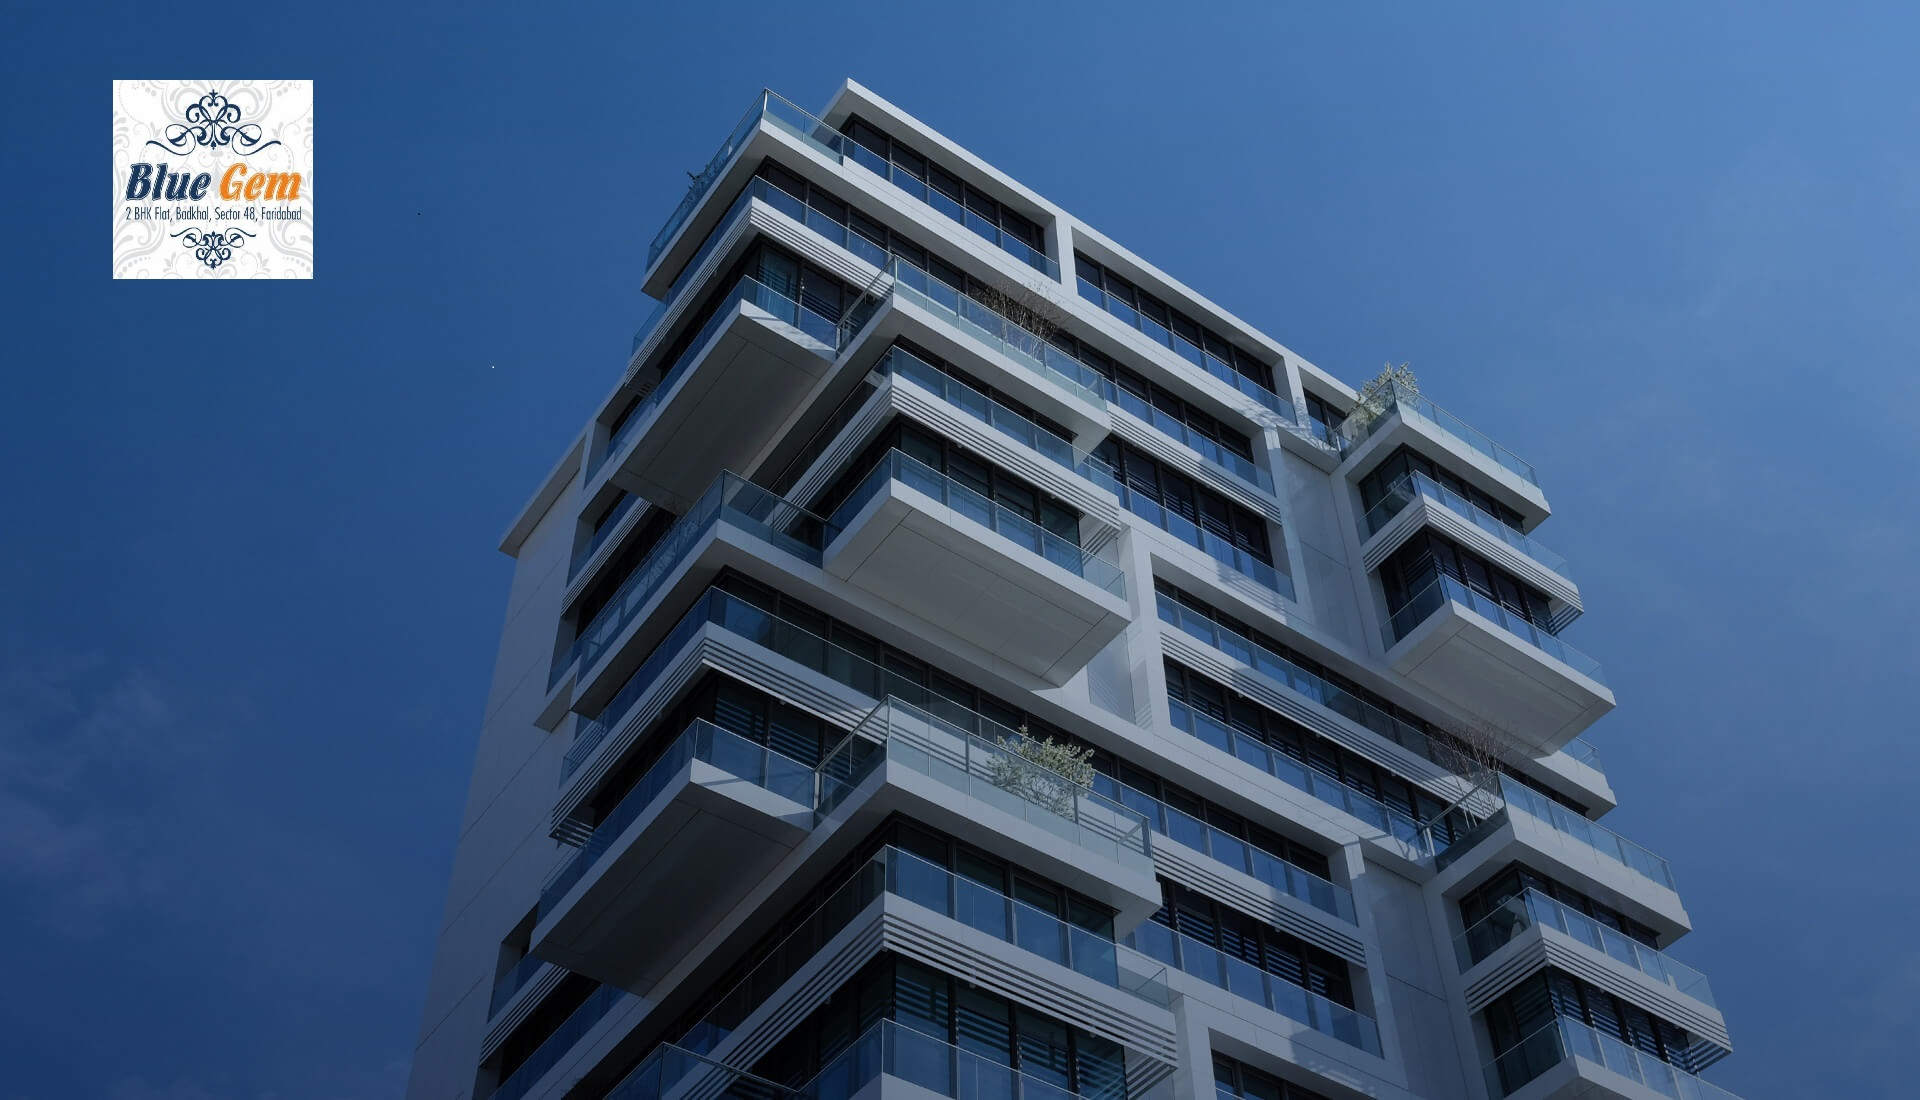
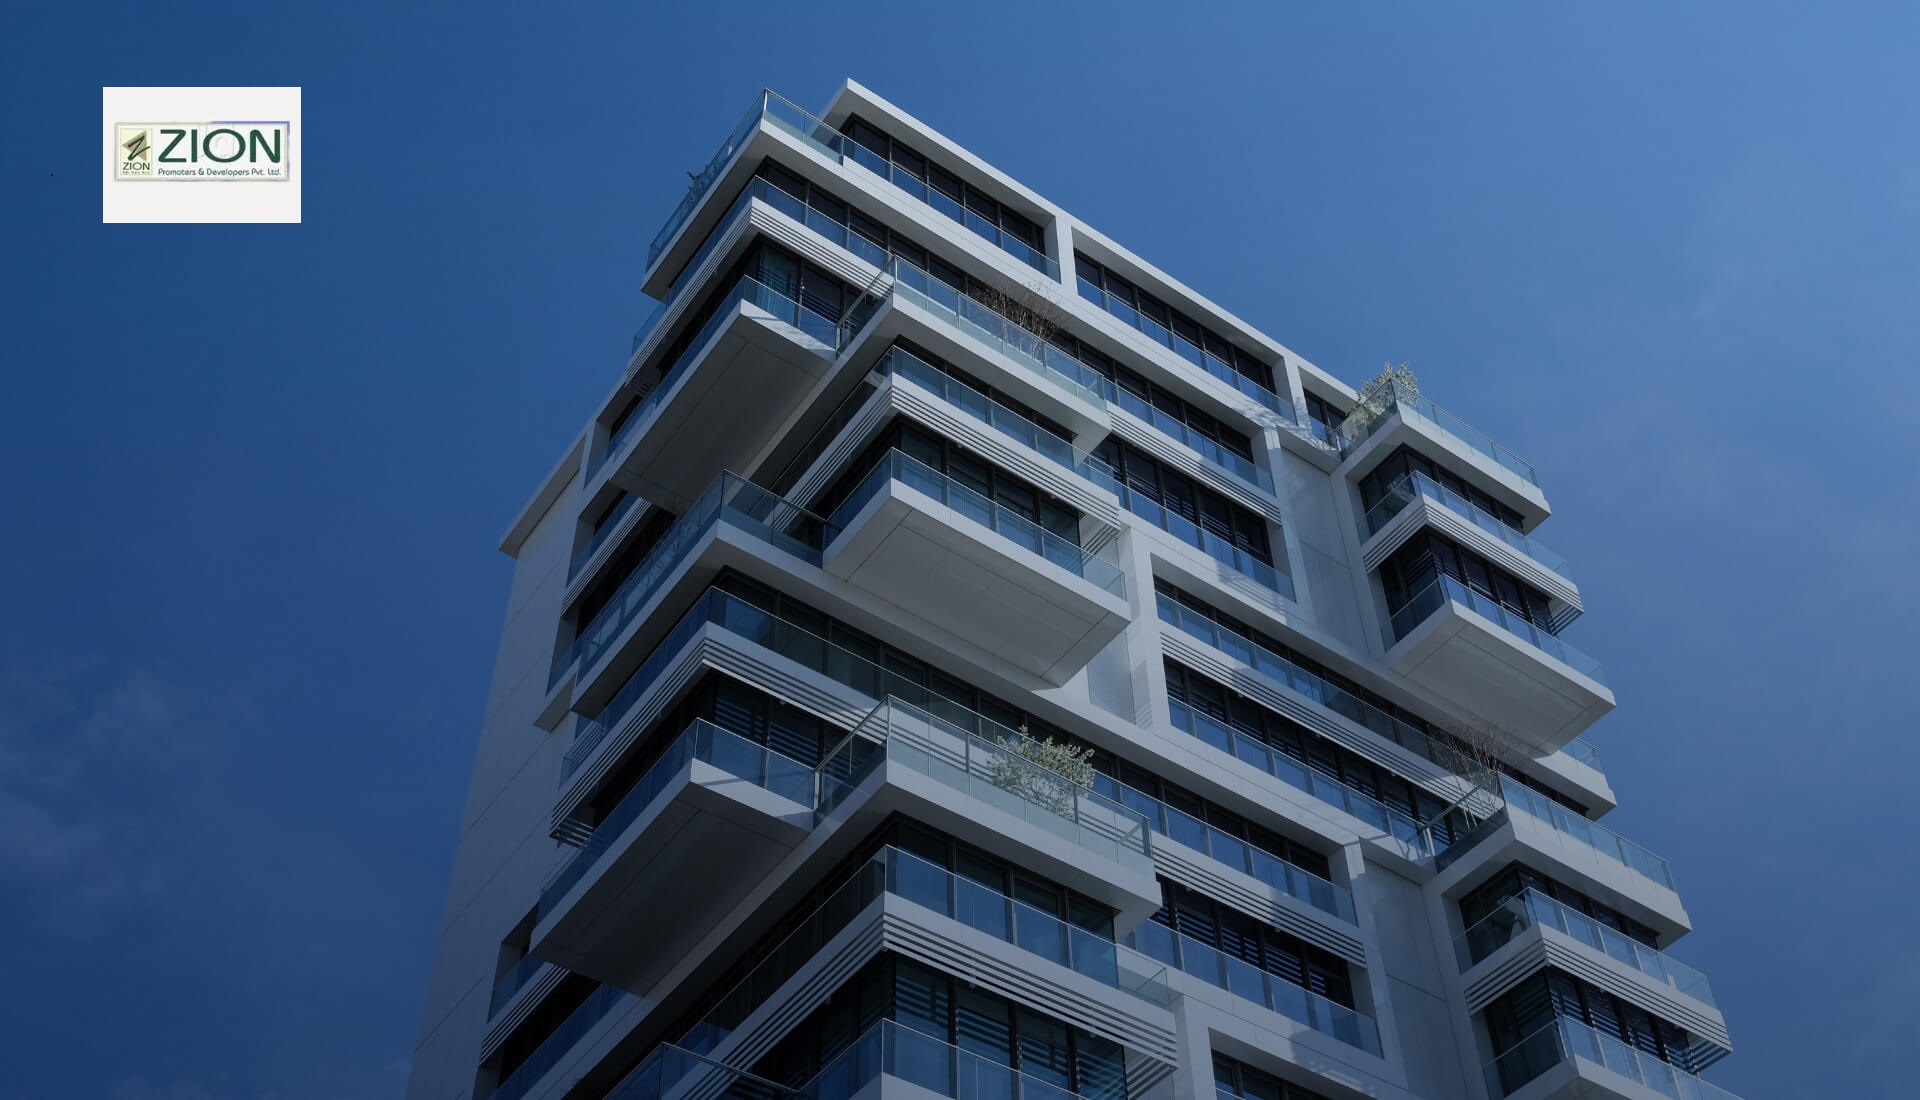
Add files via upload

Changed region(s): [[0.0312, 0.0618, 0.1875, 0.2782]]

diff --git a/index.html b/index.html
@@ -11,7 +11,7 @@
 	<meta name="viewport" content="width=device-width, initial-scale=1, maximum-scale=1, user-scalable=no">
 	<meta name="mobile-web-app-capable" content="yes">
 	<meta name="apple-mobile-web-app-capable" content="yes">
-	<title>BlueGem Apartments</title>
+	<title>Zion LakeView Apartments</title>
 	<link rel="icon" href="./logo2.png" sizes="32x32" />
 	<link rel="icon" href="./logo2.png" sizes="192x192" />
 	<style>
@@ -12212,6 +12212,94 @@
 																			</div>
 																		</div>
 																	</div>
+																	<div class="bt_bb_content_slider_item"
+																		style="background-image:url(wp-content/uploads/sites/2/2020/01/slider_hero_home_01_01.jpg)">
+																		<div
+																			class="bt_bb_content_slider_item_content content">
+																			<div
+																				class="bt_bb_separator bt_bb_top_spacing_extra_large bt_bb_bottom_spacing_large bt_bb_border_style_none bt_bb_hidden_xs bt_bb_hidden_ms">
+																			</div>
+																			<div
+																				class="bt_bb_separator bt_bb_top_spacing_normal bt_bb_bottom_spacing_medium bt_bb_border_style_none bt_bb_hidden_sm bt_bb_hidden_md bt_bb_hidden_lg">
+																			</div>
+																			<div
+																				class="bt_bb_row_inner bt_bb_column_inner_gap_30">
+																				<div class="bt_bb_column_inner col-md-12 col-ms-12 bt_bb_align_left bt_bb_vertical_align_top bt_bb_animation_fade_in move_up animate bt_bb_padding_normal bt_bb_border_left bt_bb_border_color_light bt_bb_border_width_2"
+																					data-width="12">
+																					<div
+																						class="bt_bb_column_inner_content">
+																						<header
+																							class="bt_bb_headline bt_bb_color_scheme_6 bt_bb_dash_none bt_bb_size_extralarge bt_bb_superheadline bt_bb_align_inherit">
+																							<h1><span
+																									class="bt_bb_headline_superheadline">Price Starts:</span><span
+																									class="bt_bb_headline_content"><span>3 BHK<br />
+																										<em>₹ 54.90 Lacs</em></span></span>
+																							</h1>
+																						</header>
+																						<div
+																							class="bt_bb_separator bt_bb_bottom_spacing_medium bt_bb_border_style_none">
+																						</div>
+																						<div
+																							class="bt_bb_button bt_bb_icon_position_right bt_bb_color_scheme_6 bt_bb_style_clean bt_bb_size_normal bt_bb_width_inline bt_bb_shape_inherit bt_bb_align_inherit bt_bb_show_arrow">
+																							<a href="about-us/services/index.html"
+																								target="_self"
+																								class="bt_bb_link"
+																								title="Discover More"><span
+																									class="bt_bb_button_text">
+																									More</span></a>
+																						</div>
+																						<div
+																							class="bt_bb_separator bt_bb_top_spacing_medium bt_bb_bottom_spacing_large bt_bb_border_style_none">
+																						</div>
+																					</div>
+																				</div>
+																			</div>
+																		</div>
+																	</div>
+																	<div class="bt_bb_content_slider_item"
+																		style=";background-image:url(wp-content/uploads/sites/2/2020/01/slider_hero_home_02_02.jpg)">
+																		<div
+																			class="bt_bb_content_slider_item_content content">
+																			<div
+																				class="bt_bb_separator bt_bb_top_spacing_extra_large bt_bb_bottom_spacing_large bt_bb_border_style_none bt_bb_hidden_xs bt_bb_hidden_ms">
+																			</div>
+																			<div
+																				class="bt_bb_separator bt_bb_top_spacing_normal bt_bb_bottom_spacing_medium bt_bb_border_style_none bt_bb_hidden_sm bt_bb_hidden_md bt_bb_hidden_lg">
+																			</div>
+																			<div
+																				class="bt_bb_row_inner bt_bb_column_inner_gap_30">
+																				<div class="bt_bb_column_inner col-md-12 col-ms-12 bt_bb_align_left bt_bb_vertical_align_top bt_bb_animation_fade_in move_up animate bt_bb_padding_normal bt_bb_border_left bt_bb_border_color_light bt_bb_border_width_2"
+																					data-width="12">
+																					<div
+																						class="bt_bb_column_inner_content">
+																						<header
+																							class="bt_bb_headline bt_bb_color_scheme_6 bt_bb_dash_none bt_bb_size_extralarge bt_bb_superheadline bt_bb_align_inherit">
+																							<h1><span
+																									class="bt_bb_headline_superheadline">3+1 BHK</span><span
+																									class="bt_bb_headline_content"><span>Price Starts:<br />
+																										<em>₹ 71.90 lacs</em></span></span>
+																							</h1>
+																						</header>
+																						<div
+																							class="bt_bb_separator bt_bb_bottom_spacing_medium bt_bb_border_style_none">
+																						</div>
+																						<div
+																							class="bt_bb_button bt_bb_icon_position_right bt_bb_color_scheme_6 bt_bb_style_clean bt_bb_size_normal bt_bb_width_inline bt_bb_shape_inherit bt_bb_align_inherit bt_bb_show_arrow">
+																							<a href="about-us/services/index.html"
+																								target="_self"
+																								class="bt_bb_link"
+																								title="Discover More"><span
+																									class="bt_bb_button_text">
+																									More</span></a>
+																						</div>
+																						<div
+																							class="bt_bb_separator bt_bb_top_spacing_medium bt_bb_bottom_spacing_large bt_bb_border_style_none">
+																						</div>
+																					</div>
+																				</div>
+																			</div>
+																		</div>
+																	</div>
 																</div>
 															</div>
 														</div>
@@ -12606,12 +12694,13 @@
 															<div class="bt_bb_real_estate_details">
 																<div class="bt_bb_real_estate_details_content"><span
 																		class="bt_bb_real_estate_details_title">PROJECT OWNER</span><span
-																		class="bt_bb_real_estate_details_details">Zion Promoters</span></div>
+																		class="bt_bb_real_estate_details_details">Zion LakeView</span></div>
 															</div>
 															<div class="bt_bb_real_estate_details">
 																<div class="bt_bb_real_estate_details_content"><span
 																		class="bt_bb_real_estate_details_title">TYPE</span><span
-																		class="bt_bb_real_estate_details_details">2 BHK Apartments</span></div>
+																		class="bt_bb_real_estate_details_details">3 & 3+1 BHK Apartments
+																		</span></div>
 															</div>
 															<div class="bt_bb_real_estate_details">
 																<div class="bt_bb_real_estate_details_content"><span
@@ -12657,7 +12746,7 @@
 							</div>
 						</section>
 						<section id="bt_bb_section5f36374e16fef"
-							class="bt_bb_section bt_bb_top_spacing_medium bt_bb_bottom_spacing_large bt_bb_layout_boxed_1200 bt_bb_vertical_align_top">
+							class="bt_bb_section bt_bb_top_spacing_medium bt_bb_color_scheme_13 bt_bb_bottom_spacing_large bt_bb_layout_boxed_1200 bt_bb_vertical_align_top">
 							<div class="bt_bb_port">
 								<div class="bt_bb_cell">
 									<div class="bt_bb_cell_inner">
@@ -12676,12 +12765,11 @@
 															</header>
 															<div
 																class="bt_bb_separator bt_bb_bottom_spacing_medium bt_bb_border_style_none">
+																
 															</div>
 															<div
 																class="bt_bb_button bt_bb_icon_position_right bt_bb_style_filled bt_bb_size_normal bt_bb_width_inline bt_bb_shape_inherit bt_bb_align_inherit bt_bb_show_arrow">
-																<a href="./Blue Gem - e brochure.pdf" target="_blank"
-																	title="Discover More"><img src="./brochure.png" alt="">
-																</a></div>
+																</div>
 															<div
 																class="bt_bb_separator bt_bb_bottom_spacing_medium bt_bb_border_style_none bt_bb_hidden_md bt_bb_hidden_lg">
 															</div>
@@ -12696,7 +12784,7 @@
 																class="bt_bb_content_slider bt_bb_gap_no_gap bt_bb_arrows_size_no_arrows bt_bb_show_dots_below bt_bb_height_keep-height bt_bb_animation_fade bt_bb_dots_color_scheme_12">
 																<div class="slick-slider fade"
 																	data-slick='{ "lazyLoad": "progressive", "cssEase": "ease-out", "speed": "600", "fade": true, "arrows": false, "dots": true,"autoplay": true, "autoplaySpeed": 3000,"pauseOnHover": false}'>
-																	<div class="bt_bb_content_slider_item" style="">
+																	<div class="bt_bb_content_slider_item">
 																		<div
 																			class="bt_bb_content_slider_item_content content">
 																			<div
@@ -12725,7 +12813,7 @@
 																			</div>
 																		</div>
 																	</div>
-																	<div class="bt_bb_content_slider_item" style="">
+																	<div class="bt_bb_content_slider_item">
 																		<div
 																			class="bt_bb_content_slider_item_content content">
 																			<div
@@ -12754,7 +12842,7 @@
 																			</div>
 																		</div>
 																	</div>
-																	<div class="bt_bb_content_slider_item" style="">
+																	<div class="bt_bb_content_slider_item">
 																		<div
 																			class="bt_bb_content_slider_item_content content">
 																			<div
@@ -12775,7 +12863,7 @@
 																								<a href="./plot.png"><img src="./plot.png" alt=""></a>
 																							</div>
 																							<div class="bt_bb_text">
-																								<p>2 Different types of Floor Maps.</p>
+																								<p>3 BHK Floor Map.</p>
 																							</div>
 																						</div>
 																					</div>
@@ -12783,7 +12871,7 @@
 																			</div>
 																		</div>
 																	</div>
-																	<div class="bt_bb_content_slider_item" style="">
+																	<div class="bt_bb_content_slider_item">
 																		<div
 																			class="bt_bb_content_slider_item_content content">
 																			<div
@@ -12804,7 +12892,7 @@
 																								<a href="./payment.png"><img src="./payment.png" alt=""></a>
 																							</div>
 																							<div class="bt_bb_text">
-																								<p>2 Different types of Floor Maps.</p>
+																								<p>3 + 1 BHK Floor Maps.</p>
 																							</div>
 																						</div>
 																					</div>
@@ -13321,7 +13409,7 @@
 						</style>
 						<section id="map-section" style="padding-top: 50px;padding-bottom: 50px;" id="bt_bb_section5f36374e1b74d" class="bt_bb_section bt_bb_layout_wide bt_bb_vertical_align_top">
 							<div id="googlemaps"><iframe
-								src="https://maps.google.com/maps?t=m&output=embed&iwloc=near&z=15&q=2277+Lorem+Ave.%2C+San+Diego@28.4046489,77.2772147"
+								src="https://maps.google.com/maps?t=m&output=embed&iwloc=near&z=15&q=2277+Lorem+Ave.%2C+San+Diego@28.411640,77.284262"
 								width="100%" height="850" frameborder="0" style="border:0;"
 								allowfullscreen="" aria-hidden="false"
 								tabindex="2">
@@ -13345,7 +13433,7 @@
 									<header
 										class="bt_bb_headline bt_bb_dash_none bt_bb_size_medium bt_bb_align_inherit">
 										<h4><span
-												class="bt_bb_headline_content"><span>BlueGem
+												class="bt_bb_headline_content"><span>LakeView
 													<em>Apartments</em></span></span>
 										</h4>
 									</header>
@@ -13450,9 +13538,9 @@
 													<div
 														class="bt_bb_image bt_bb_shape_square bt_bb_align_inherit bt_bb_hover_style_simple bt_bb_content_display_always bt_bb_content_align_middle">
 														<span><img
-																src="./logo.png"
-																data-full_image_src="./logo.png"
-																data-image_src="./logo.png"
+																src="./logo23.png"
+																data-full_image_src="./logo23.png"
+																data-image_src="./logo23.png"
 																title="logo_small"
 																alt="https://nestin.bold-themes.com/smart/wp-content/uploads/sites/2/2020/01/logo_small.png"
 																class="btLazyLoadImage"></span></div>
@@ -13591,9 +13679,9 @@
 														class="bt_bb_separator bt_bb_bottom_spacing_45 bt_bb_border_style_none">
 													</div>
 													<div class="bt_bb_text" style="max-width: 220px;">
-														<p>BlueGem Calls may be recorded for quality
+														<p>Lakeview Calls may be recorded for quality
 															and training purposes.</p>
-														<p><span style="color: #de3131;">© BlueGem 2020. All rights
+														<p><span style="color: #de3131;">© Zion Lakeview 2020. All rights
 																reserved</span></p>
 													</div>
 												</div>
